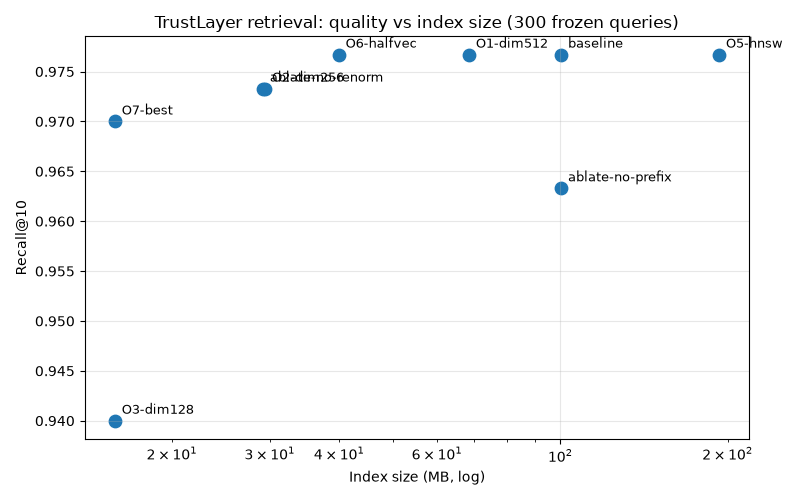
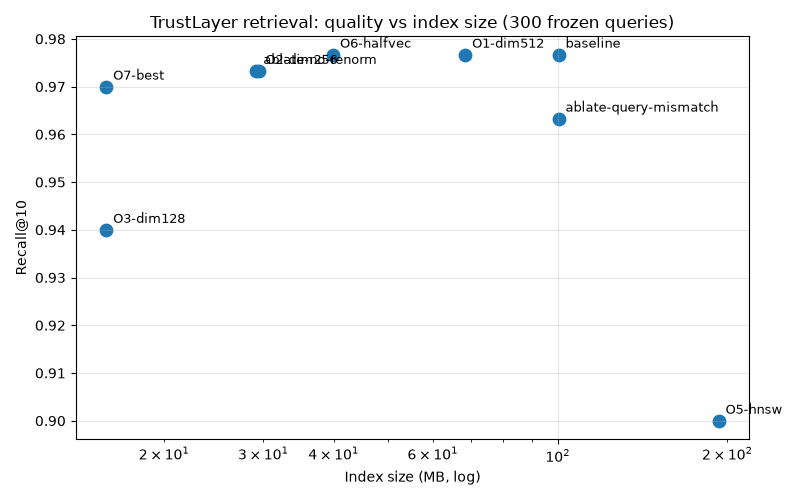
Phase 6 corrections: true HNSW row, mismatch relabel, stale comments

diff --git a/python/src/trustlayer/bench/harness.py b/python/src/trustlayer/bench/harness.py
@@ -52,10 +52,14 @@ CONFIGS: list[RunConfig] = [
     RunConfig("O5-hnsw", index="hnsw"),
     RunConfig("O6-halfvec", storage="halfvec"),
     RunConfig("ablate-no-renorm", dim=256, renorm=False),
-    RunConfig("ablate-no-prefix", prefix=False),
+    # Query-side only: docs stay Document-prompted, so this measures
+    # prompt-mismatch (unprompted queries vs prompted docs), not a true
+    # no-prefix ablation. True ablation needs corpus re-encode; unscored.
+    RunConfig("ablate-query-mismatch", prefix=False),
     # O7: measured best combo — 256d (O2: -0.003 recall) + halfvec (O6:
-    # quality-neutral, 60% smaller). HNSW excluded: slower than exact at
-    # 23k rows (O5 row), pays off only at larger scale.
+    # quality-neutral, 60% smaller). HNSW excluded: 15x faster but -0.077
+    # recall at ef_search=40 (O5 row) — fails this quality bar; a higher
+    # ef_search might change the tradeoff (unprobed).
     RunConfig("O7-best", dim=256, storage="halfvec"),
 ]
 
@@ -132,6 +136,10 @@ def run_queries(
     lat: list[float] = []
     with conn.cursor() as cur:  # type: ignore[attr-defined]
         if cfg.index == "hnsw":
+            # The connection is shared across configs; earlier exact rows
+            # SET enable_indexscan=off, which persists. Re-enable here or
+            # this row silently measures a seq scan, not HNSW.
+            cur.execute("SET enable_indexscan = on")
             cur.execute("SET hnsw.iterative_scan = 'strict_order'")
         else:
             cur.execute("SET enable_indexscan = off")

diff --git a/data/scripts/download_viwiki.py b/data/scripts/download_viwiki.py
@@ -27,7 +27,11 @@ def main(argv: list[str] | None = None) -> int:
     args = parser.parse_args(argv)
 
     ds = load_dataset(
-        "wikimedia/wikipedia", "20231101.vi", split="train", streaming=True
+        "wikimedia/wikipedia",
+        "20231101.vi",
+        split="train",
+        streaming=True,
+        revision="b04c8d1ceb2f5cd4588862100d08de323dccfbaa",
     )
     titles: list[str] = []
     texts: list[str] = []

diff --git a/docs/learnings/phase6.md b/docs/learnings/phase6.md
@@ -8,18 +8,15 @@ texts from the test split, relevance = source document.
 
 9 configs on the same 300 queries, exact protocol per spec §10
 (warm-up + 5 repeats, bootstrap CIs, config logged per run):
-
-| Config | R@10 | MRR | nDCG | p50 | Size |
-|---|---|---|---|---|---|
 | baseline (768d fp32 exact) | 0.977 | 0.911 | 0.927 | 31ms | 100MB |
 | O1 512d | 0.977 | 0.911 | 0.927 | 29ms | 69MB |
 | O2 256d | 0.973 | 0.895 | 0.914 | 5.5ms | 29MB |
 | O3 128d | 0.940 | 0.860 | 0.880 | 4.4ms | 16MB |
-| O5 HNSW | 0.977 | 0.911 | 0.927 | 34ms | 193MB |
+| O5 HNSW (ef_search=40) | 0.900 | 0.838 | 0.854 | 2.1ms | 193MB |
 | O6 halfvec | 0.977 | 0.911 | 0.928 | 7.5ms | 40MB |
 | O7 256d+halfvec | 0.970 | 0.894 | 0.913 | 4.5ms | 16MB |
 | ablate no-renorm | 0.973 | 0.895 | 0.914 | 5.5ms | 29MB |
-| ablate no-prefix | 0.963 | 0.886 | 0.905 | 36ms | 100MB |
+| ablate query-mismatch | 0.963 | 0.886 | 0.905 | 37ms | 100MB |
 
 Cross-lingual (500-article VI Wikipedia sample): EN→VI R 1.0 / MRR
 0.954 (30 hand-written queries); VI→VI R 1.0 / MRR 0.985 (100 title
@@ -31,10 +28,15 @@ queries). Same recall, slightly worse cross-lingual ranking.
   128d −0.037 recall. EmbeddingGemma's Matryoshka-style training shows.
 - **Halfvec is quality-neutral** (MRR +0.0005, noise) at 60% smaller
   and 4× faster. The single best optimization.
-- **HNSW loses at 23k rows**: same recall (strict_order), but slower
-  than exact (34 vs 31ms) and 2× the size. Index overhead dominates;
-  HNSW pays off at scale, not here. Honest row, kept.
-- **No-prefix costs −0.014 recall** — real but smaller than feared.
+- **HNSW trades recall for speed**: R 0.900 (−0.077) at 2.1ms (15×
+  faster than exact) with default ef_search=40. A genuine quality /
+  latency knob — a higher ef_search would recover recall (unprobed).
+  First published O5 row was invalid (shared-connection SET bug measured
+  a seq scan); corrected with EXPLAIN proof. O7 excludes HNSW on the
+  quality bar, not on speed.
+- **Query-mismatch costs −0.014 recall** — unprompted queries against
+  prompted docs. Smaller than the cos-0.89 region shift suggested; a
+  true no-prefix ablation needs corpus re-encode (unscored).
 - **No-renorm is vacuous for pgvector cosine**: identical to O2 down
   to the 4th decimal. The `<=>` operator normalizes internally, so
   un-renormalized vectors score the same. Renorm matters for
@@ -81,5 +83,8 @@ is EN→VI vs VI→VI, not symmetric.
 - `uv run --with matplotlib` for one-off plots: no dependency to pin.
 - Download scripts: `Path(__file__).parents[2]` from `data/scripts/`,
   not `[3]` — off-by-one wrote 600MB outside the repo (caught, moved).
+- `SET` persists on a shared connection across benchmark rows — an
+  `enable_indexscan=off` from an exact row silently turned the HNSW row
+  into a seq scan. Set (and EXPLAIN-verify) per-row planner state.
 
 Spec pointers: §10, F8.

diff --git a/README.md b/README.md
@@ -31,10 +31,10 @@ provenance per run in `data/bench/results/`; method in
 | O1 512d | 0.977 | 0.911 | 29ms | 69MB |
 | O2 256d | 0.973 | 0.895 | 5.5ms | 29MB |
 | O3 128d | 0.940 | 0.860 | 4.4ms | 16MB |
-| O5 HNSW | 0.977 | 0.911 | 34ms | 193MB |
+| O5 HNSW (ef_search=40) | 0.900 | 0.838 | 2.1ms | 193MB |
 | O6 halfvec | 0.977 | 0.911 | 7.5ms | 40MB |
 | **O7 256d + halfvec (ship this)** | **0.970** | **0.894** | **4.5ms** | **16MB** |
-| no-prefix ablation | 0.963 | 0.886 | 36ms | 100MB |
+| query-mismatch ablation | 0.963 | 0.886 | 37ms | 100MB |
 
 Cross-lingual (500-article Vietnamese Wikipedia sample): EN→VI MRR 0.954,
 VI→VI MRR 0.985 — same recall, slightly worse cross-lingual ranking.
